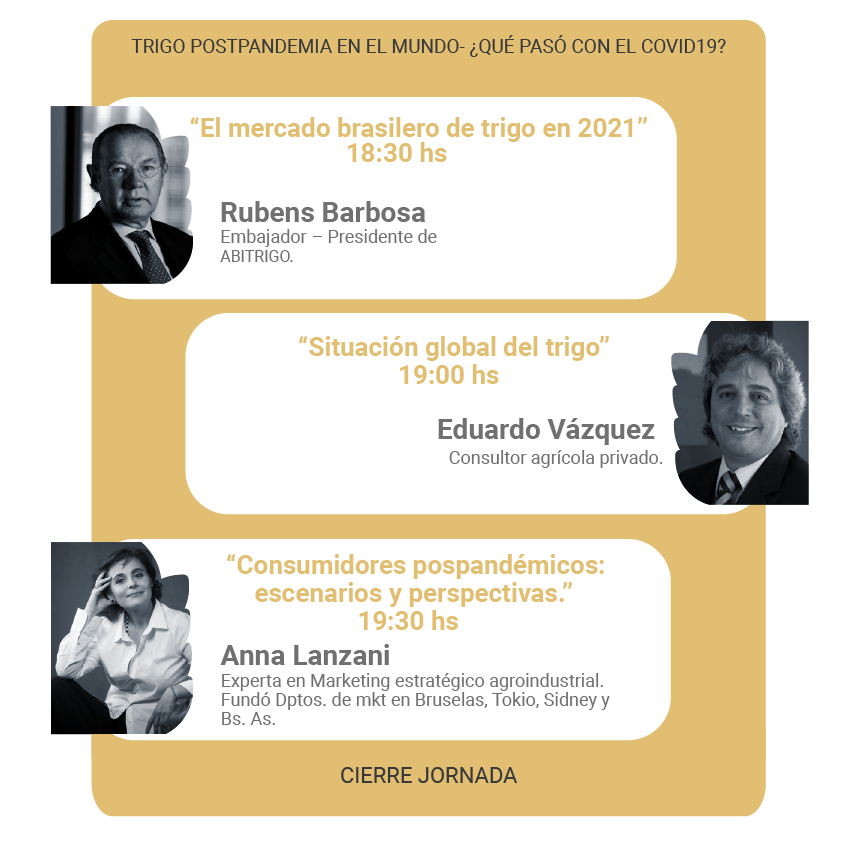
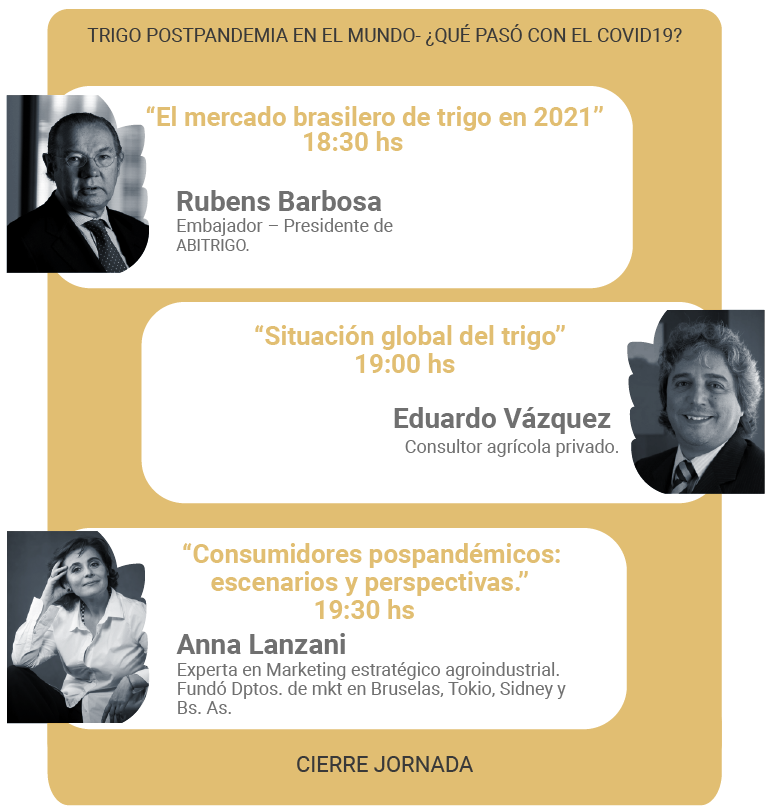
actualizacion de titulos e imagenes

diff --git a/src/app/components/home/home.component.scss b/src/app/components/home/home.component.scss
@@ -3,7 +3,7 @@ $texto-color: white;
 $streaming-color: #e3c06c;
 $fondo-grisclaro: #707070;
 $tamaño-texto: 18px;
-$tamaño-tituloagenda: 25px;
+$tamaño-tituloagenda: 27px;
 
 .cuerpo-home {
   background-color: $fondo-color;
@@ -222,6 +222,7 @@ $tamaño-tituloagenda: 25px;
   color: $streaming-color;
   font-size: 40px;
   text-align: center;
+  margin-bottom: 15px;
 }
 
 .boton-contenedor {
@@ -244,7 +245,8 @@ $tamaño-tituloagenda: 25px;
 }
 
 .tit-logos {
-  font-size: 20px;
+  font-size: 24px;
+  margin-bottom: 5px;
 }
 
 @media (max-width: 470px) {
@@ -280,7 +282,7 @@ $tamaño-tituloagenda: 25px;
   }
 
   .trigar-logo {
-    width: 170px;
+    width: 180px;
   }
 
   .cronogramaimg {
@@ -289,11 +291,12 @@ $tamaño-tituloagenda: 25px;
   }
 
   .titulo-agenda {
-    font-size: 17px;
+    font-size: 21px;
   }
 
   .instrucciones-text {
     font-size: 20px;
+    
   }
 
   .boton-ing-str {
@@ -308,7 +311,7 @@ $tamaño-tituloagenda: 25px;
   }
 
   .tit-logos {
-    font-size: 15px;
+    font-size: 18px;
     margin: auto;
   }
 

diff --git a/src/app/components/home/home.component.html b/src/app/components/home/home.component.html
@@ -101,7 +101,7 @@
   <div class="fondo-crono-tri container-fluid">
 
     <!-- AGENDA Y SPEAKERS -->
-    <div class="d-flex justify-content-center">
+    <div class="d-flex justify-content-center ">
 
       <img class="trigar-logo" src="../../../assets/images/logos/Trigar.png" alt="Trigar">
 
